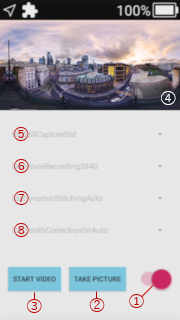
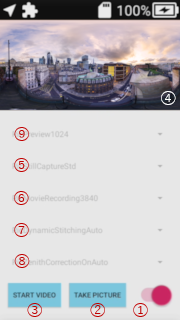
update

diff --git a/app/src/main/java/com/theta360/sample/camera/MainActivity.kt b/app/src/main/java/com/theta360/sample/camera/MainActivity.kt
@@ -22,7 +22,7 @@ import java.io.IOException
 import java.text.SimpleDateFormat
 import java.util.*
 
-class MainActivity : PluginActivity() {
+class MainActivity : PluginActivity(), MediaRecorder.OnInfoListener {
     companion object {
         private val RIC_SHOOTING_MODE = "RIC_SHOOTING_MODE"
         private val RIC_PROC_STITCHING = "RIC_PROC_STITCHING"
@@ -53,6 +53,10 @@ class MainActivity : PluginActivity() {
     private var isMultiShot: Boolean = false
     private var isLongShutter: Boolean = false
 
+    private var mLcdBrightness: Int = 64
+    private var mLedPowerBrightness:  IntArray = intArrayOf(0, 0, 0, 64)   //(dummy,R,G,B)
+    private var mLedStatusBrightness: IntArray = intArrayOf(0, 0, 0, 64)   //(dummy,R,G,B)
+
     override fun onCreate(savedInstanceState: Bundle?) {
         Log.i(TAG,"onCreate")
         super.onCreate(savedInstanceState)
@@ -63,6 +67,7 @@ class MainActivity : PluginActivity() {
         val switch_camera: Switch = findViewById<Switch>(R.id.switch_camera)
         val button_image: Button = findViewById<Button>(R.id.button_image)
         val button_video: Button = findViewById<Button>(R.id.button_video)
+        val spinner_ric_shooting_mode_preview: Spinner = findViewById<Spinner>(R.id.spinner_ric_shooting_mode_preview)
         val spinner_ric_shooting_mode_image: Spinner = findViewById<Spinner>(R.id.spinner_ric_shooting_mode_image)
         val spinner_ric_shooting_mode_video: Spinner = findViewById<Spinner>(R.id.spinner_ric_shooting_mode_video)
         val spinner_ric_proc_stitching: Spinner      = findViewById<Spinner>(R.id.spinner_ric_proc_stitching)
@@ -105,9 +110,11 @@ class MainActivity : PluginActivity() {
         //Button : take picture
         button_image.setEnabled(false)
         button_image.setOnClickListener { _ ->
-            switch_camera.isClickable = false
-            enableAllButtons(false)
-            executeTakePicture()
+            if (button_image.isEnabled) {
+                switch_camera.isClickable = false
+                enableAllButtons(false)
+                executeTakePicture()
+            }
         }
 
         //Button : start and stop video recording
@@ -132,6 +139,7 @@ class MainActivity : PluginActivity() {
         }
 
         //Spinner : set Camera Parameters
+        spinner_ric_shooting_mode_preview.setSelection(0)       //RicPreview1024
         spinner_ric_shooting_mode_image.setSelection(0)         //RicStillCaptureStd
         spinner_ric_shooting_mode_video.setSelection(1)         //RicMovieRecording3840
         spinner_ric_proc_stitching.setSelection(2)              //RicDynamicStitchingAuto
@@ -171,6 +179,13 @@ class MainActivity : PluginActivity() {
         if (isInitialized) {
             openCamera(null)
             findViewById<Switch>(R.id.switch_camera).isChecked = true   //start camera
+        }
+    }
+
+    override fun onInfo(mr: MediaRecorder, what: Int, extra: Int) {
+        //Log.d(TAG, "onInfo() : what=" + what + ", extra=" + extra)
+        if (what == MediaRecorder.MEDIA_RECORDER_EVENT_RECORD_STOP) {
+            notificationAudioMovStop()
         }
     }
 
@@ -288,6 +303,7 @@ class MainActivity : PluginActivity() {
     fun executeTakePicture() {
         Log.i(TAG,"executeTakePicture")
         //executeStopPreview()
+        turnOnOffLcdLed(false)
         notificationAudioSelf()
         mCamera!!.apply {
             setCameraParameters(MODE.IMAGE)
@@ -348,6 +364,7 @@ class MainActivity : PluginActivity() {
                 notificationAudioClose()
             }
             isLongShutter = false
+            turnOnOffLcdLed(true)
         }
     }
 
@@ -358,7 +375,9 @@ class MainActivity : PluginActivity() {
             setCameraParameters(MODE.VIDEO)
         }
 
-        mRecorder = MediaRecorder().apply {
+        mRecorder = MediaRecorder()
+        mRecorder?.setOnInfoListener(this)
+        mRecorder!!.apply {
             //Context
             setMediaRecorderContext(getApplicationContext())
             //Audio Setting
@@ -425,7 +444,6 @@ class MainActivity : PluginActivity() {
     fun stopVideoRecording() {
         Log.i(TAG,"stopVideoRecording")
         mRecorder!!.apply {
-            notificationAudioMovStop()
             stop()
             release()
         }
@@ -437,6 +455,7 @@ class MainActivity : PluginActivity() {
     fun releaseMediaRecorder() {
         Log.i(TAG,"releaseMediaRecorder")
         if (mRecorder != null) {
+            mRecorder?.setOnInfoListener(null)
             mRecorder!!.release()
             mRecorder = null
         }
@@ -455,8 +474,13 @@ class MainActivity : PluginActivity() {
 
         when (mode) {
             MODE.PREVIEW -> {
-                p.set(RIC_SHOOTING_MODE, "RicPreview1024")
-                p.setPreviewSize(1024, 512)
+                val shooting_mode: String = findViewById<Spinner>(R.id.spinner_ric_shooting_mode_preview).selectedItem.toString()
+                when (shooting_mode) {
+                    "RicPreview1024" -> { p.setPreviewSize(1024, 512) }
+                    "RicPreview1920" -> { p.setPreviewSize(1920, 960) }
+                    "RicPreview3840" -> { p.setPreviewSize(3840, 1920) }
+                    "RicPreview5760" -> { p.setPreviewSize(5760, 2880) }
+                }
                 p.setPreviewFrameRate(30)
             }
             MODE.IMAGE -> {
@@ -484,6 +508,7 @@ class MainActivity : PluginActivity() {
     // UI related functions
     //
     fun enableAllSpinners(flag: Boolean) {
+        findViewById<Spinner>(R.id.spinner_ric_shooting_mode_preview).isEnabled = flag
         findViewById<Spinner>(R.id.spinner_ric_shooting_mode_image).isEnabled = flag
         findViewById<Spinner>(R.id.spinner_ric_shooting_mode_video).isEnabled = flag
         findViewById<Spinner>(R.id.spinner_ric_proc_stitching).isEnabled = flag
@@ -500,5 +525,31 @@ class MainActivity : PluginActivity() {
         val button_video = findViewById<Button>(R.id.button_video)
         enableButton(button_image, flag)
         enableButton(button_video, flag)
+    }
+
+    fun turnOnOffLcdLed(flag: Boolean) {
+        //turn on LCD and LED
+        if (flag) {
+            mCamera!!.apply {
+                ctrlLcdBrightness(mLcdBrightness)
+                for (i in 1..3) {
+                    ctrlLedPowerBrightness(i, mLedPowerBrightness[i])
+                    ctrlLedStatusBrightness(i, mLedStatusBrightness[i])
+                }
+            }
+        }
+        //turn off LCD and LED
+        else {
+            mCamera!!.apply{
+                mLcdBrightness = lcdBrightness
+                ctrlLcdBrightness(0)
+                for (i in 1..3) {
+                    mLedPowerBrightness[i] = getLedPowerBrightness(i)
+                    mLedStatusBrightness[i] = getLedStatusBrightness(i)
+                    ctrlLedPowerBrightness(i, 0)
+                    ctrlLedStatusBrightness(i, 0)
+                }
+            }
+        }
     }
 }

diff --git a/README.md b/README.md
@@ -1,8 +1,9 @@
 # THETA X Plug-in : Camera API Sample
 
-Version: 1.0.0
+Version: 1.0.1
 
 This sample project shows how to implement a plug-in using Camera API for RICOH THETA X.
+The program language is Kotlin, please checkout [java branch](https://github.com/ricohapi/theta-plugin-camera-api-sample-x/tree/java) to see Java code.
 
 ## Contents
 
@@ -27,6 +28,7 @@ This sample project shows how to implement a plug-in using Camera API for RICOH 
     > * ② Button to execute take picture
     > * ③ Button to execute start / stop video recording
     > * ④ Texture View to show preview picture
+    > * ⑨ Spinner to choose RIC_SHOOTING_MODE for preview mode
     > * ⑤ Spinner to choose RIC_SHOOTING_MODE for image mode
     > * ⑥ Spinner to choose RIC_SHOOTING_MODE for video mode
     > * ⑦ Spinner to choose RIC_PROC_STITCHING
